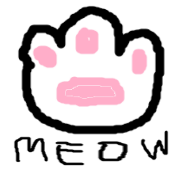
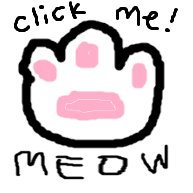
Style changes

diff --git a/index.html b/index.html
@@ -20,7 +20,7 @@
             <a href="https://www.youtube.com/watch?v=ceIy3LF-b-g">Midnight Satori</a>
              by 𓆏𓆏𓆏𓆏
         </p>
-        <audio id="music" controls autoplay loop>
+        <audio id="music" autoplay loop>
             <source src="midnight satori.mp3" type="audio/mpeg">
         </audio>
     </body>

diff --git a/catdance.css b/catdance.css
@@ -18,6 +18,12 @@ button {
     background-color: inherit;
 }
 
+#meaningful_quote {
+    text-align: center;
+    align-self: center;
+    max-width: 75%;
+}
+
 #cat_holder {
     /* Start the shake animation and make the animation last for 0.5 seconds */
     animation: shake 0.5s;
